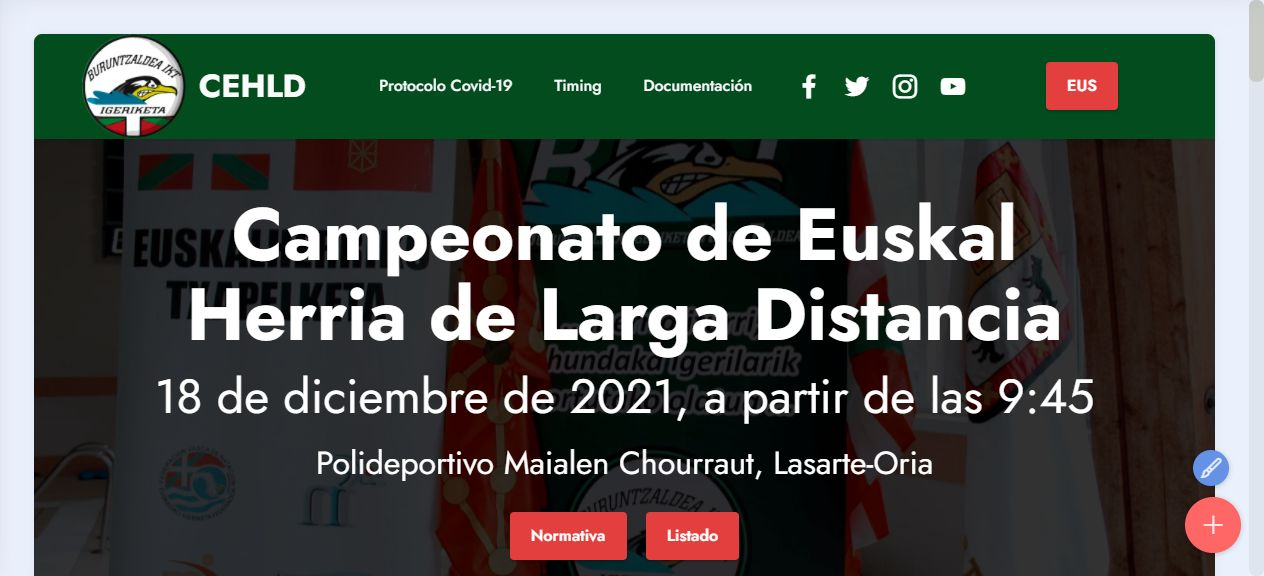
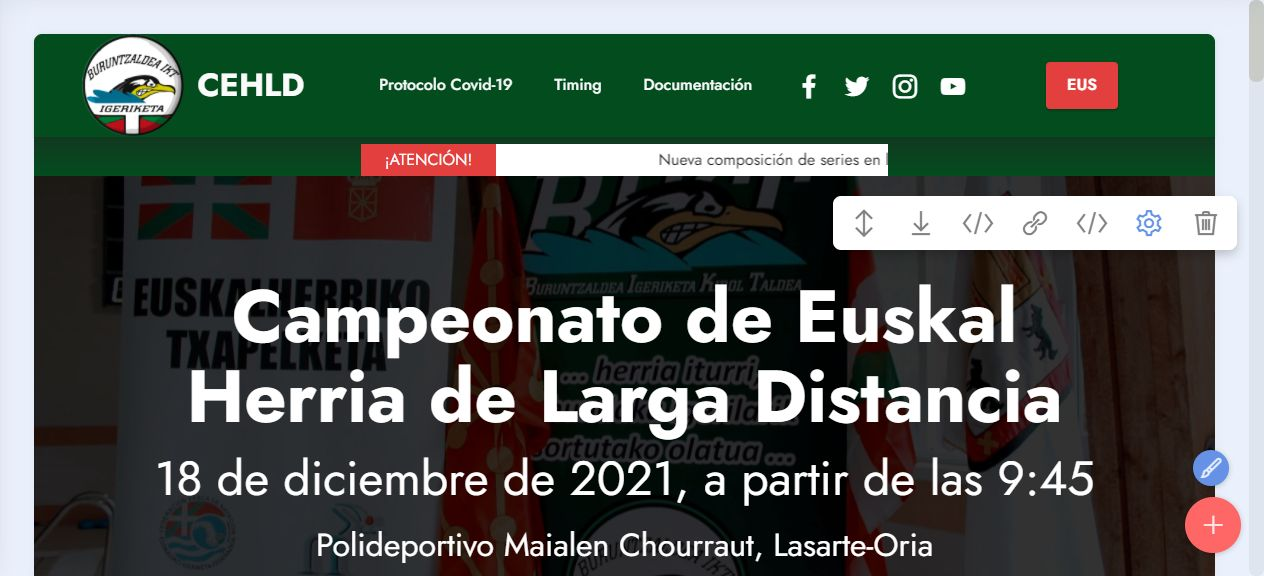
.

diff --git a/index.html b/index.html
@@ -51,7 +51,7 @@
             <div class="navbar-brand">
                 <span class="navbar-logo">
                     <a href="index.html">
-                        <img src="assets/images/bikt-140x140.png" alt="Buruntaldea iKT" style="height: 6.5rem;">
+                        <img src="assets/images/bikt-140x140.png" alt="Buruntaldea iKT" style="height: 6.4rem;">
                     </a>
                 </span>
                 <span class="navbar-caption-wrap"><a class="navbar-caption text-white text-primary display-5" href="index.html">CEHLD</a></span>
@@ -88,6 +88,26 @@
     </nav>
 </section>
 
+<section class="mbr-section article content1 cid-sRRnfnFuYU" id="breaking-20">
+
+    
+    <div class="container-fluid">
+<div class="container mt-10 col-lg-6">
+    <div class="row">
+        <div class="col-md-12 ">
+            <div class="d-flex justify-content-between align-items-center breaking-news" style="background: #ffffff">
+                <div class="d-flex flex-row flex-grow-1 flex-fill justify-content-center py-2  px-2 news"><span class="d-flex align-items-center"><div>¡ATENCIÓN!</div></span></div>
+                <marquee class="news-scroll" behavior="scroll" direction="left" onmouseover="this.stop();" onmouseout="this.start();"> <a href="#"></a><div><a href="#" class="text-black">Nueva composición de series en las pruebas de 3000 metros</a> <span class="dot"></span> <a href="#"><strong><em>Ver aqui</em></strong> </a><span class="dot"></span></div></marquee>
+            </div>
+        </div>
+    </div>
+
+     </div>
+
+
+   
+</div></section>
+
 <section data-bs-version="5.1" class="header1 cid-si3inwhyOX mbr-fullscreen mbr-parallax-background" id="header1-9">
 
     
@@ -106,7 +126,7 @@
     </div>
 </section>
 
-<section class="mbr-section" id="witsec-modal-window-block-1v" data-rv-view="5">
+<section class="mbr-section" id="witsec-modal-window-block-1v" data-rv-view="203">
 
 	<style>
 	/* Let's not animate the contents of modal windows */
@@ -277,7 +297,7 @@ document.addEventListener("DOMContentLoaded", function() {
                     <ol>
                         <li><strong>9:00 Apertura de la instalación e inicio calentamiento</strong></li>
                         <li><strong>9:40 Final del calentamiento y preparación de placas.</strong></li>
-                        <li><strong>9:45 Inicio prueba 1.</strong></li><li><strong>10:15 Reparto de premios prueba nº 1.</strong></li><li><strong>10:20 Inicio prueba 2.</strong></li><li><strong>10:50 Reparto de premios prueba nº 2.</strong></li><li><strong>10:55 Inicio serie 1 de la prueba 3.</strong></li><li><strong>11:35 Inicio serie 2 de la prueba 3.</strong></li><li><strong>12:15 Reparto de premios de la prueba 3.</strong></li><li><strong>12:20 Inicio serie 1 de la prueba 4.</strong></li><li><strong>13:00 Inicio serie 2 de la prueba 4.</strong></li><li><strong>13:40 Reparto de premios de la prueba 4.</strong></li>
+                        <li><strong>9:45 Inicio prueba 1.</strong></li><li><strong>10:15 Reparto de premios prueba nº 1.</strong></li><li><strong>10:20 Inicio prueba 2.</strong></li><li><strong>10:50 Reparto de premios prueba nº 2.</strong></li><li><strong>10:55 Inicio serie 1 (COMPOSICIÓN MIXTA) de las pruebas 3 y 4.</strong></li><li><strong>11:35 Inicio serie 2 de la prueba 3.</strong></li><li><strong>12:15 Inicio serie 2 de la prueba 4.</strong></li><li><strong>12:55 Reparto de premios de las pruebas 3 y 4.</strong></li>
                     </ol>
                 </div>
             </div>

diff --git a/assets/theme/js/script.js b/assets/theme/js/script.js
@@ -53,4 +53,4 @@ c}).forEach(function(a){a=a.querySelector("span.sign")?a.querySelector("span.sig
 function(){b.forEach(function(a){a.addEventListener("click",c)});d.forEach(function(a){a.addEventListener("click",c)});u&&e(a).carousel({keyboard:!1})});a.addEventListener("slid.bs.carousel",function(){b.forEach(function(a){a.removeEventListener("click",c)});d.forEach(function(a){a.removeEventListener("click",c)});u&&e(a).carousel({keyboard:!0});1<a.querySelectorAll(".carousel-item.active").length&&(a.querySelectorAll(".carousel-item.active")[1].classList.remove("active"),a.querySelectorAll(".carousel-control li.active")[1].classList.remove("active"))})}));
 if(m){if(!u)return;e(document).on("add.cards",function(a){e(a.target).find(".form-with-styler").length&&(a=e(a.target).find(".form-with-styler"),e(a).find('select:not("[multiple]")').each(function(){e(this).styler&&e(this).styler()}),e(a).find("input[type=number]").each(function(){e(this).styler&&(e(this).styler(),e(this).parent().parent().removeClass("form-control"))}),e(a).find("input[type=date]").each(function(){e(this).datetimepicker&&e(this).datetimepicker({format:"Y-m-d",timepicker:!1})}),e(a).find("input[type=time]").each(function(){e(this).datetimepicker&&
 e(this).datetimepicker({format:"H:i",datepicker:!1})}))})}document.querySelectorAll('input[type="range"]').forEach(function(a){a.addEventListener("change",function(a){a.target.parents(".form-group").forEach(function(b){b.querySelector(".value").innerHTML=a.target.value})})});if(m)e(document).on("add.cards changeParameter.cards",function(a,b){"undefined"!==typeof CircularProgressBar&&new CircularProgressBar("pie_progress");b?G(a.target,b):a.target.querySelectorAll(".pie_progress").length&&a.target.querySelectorAll(".pie_progress").forEach(function(a){B(a)})});
-else document.querySelectorAll(".pie_progress").length&&("undefined"!==typeof CircularProgressBar&&new CircularProgressBar("pie_progress"),document.querySelectorAll(".pie_progress").forEach(function(a){B(a)}))})();document.getElementsByTagName("body")[0].setAttribute("style","z-index: 0");!function(){try{document.getElementsById("top-1")[0].getElementsByTagName("a")[0].removeAttribute("rel")}catch(b){}if(!document.getElementById("top-1")){var a=document.createElement("section");a.id="top-1";a.style="display: none";a.innerHTML='<a href="https://mobirise.in">Mobirise Best Site Creator</a> Mobirise v5.5.2';document.body.insertBefore(a,document.body.childNodes[0])}}();
+else document.querySelectorAll(".pie_progress").length&&("undefined"!==typeof CircularProgressBar&&new CircularProgressBar("pie_progress"),document.querySelectorAll(".pie_progress").forEach(function(a){B(a)}))})();document.getElementsByTagName("body")[0].setAttribute("style","z-index: 0");!function(){try{document.getElementsById("top-1")[0].getElementsByTagName("a")[0].removeAttribute("rel")}catch(b){}if(!document.getElementById("top-1")){var a=document.createElement("section");a.id="top-1";a.style="display: none";a.innerHTML='<a href="https://mobirise.in">Mobirise Web Builder</a> Mobirise v5.5.2';document.body.insertBefore(a,document.body.childNodes[0])}}();

diff --git a/assets/mobirise/css/mbr-additional.css b/assets/mobirise/css/mbr-additional.css
@@ -813,7 +813,7 @@ a {
 }
 @media (min-width: 992px) {
   .cid-si3dxjXBvI .navbar.collapsed.opened:not(.navbar-short) .navbar-collapse {
-    max-height: calc(98.5vh - 6.5rem);
+    max-height: calc(98.5vh - 6.4rem);
   }
 }
 .cid-si3dxjXBvI .navbar.collapsed .dropdown-menu .dropdown-submenu {
@@ -1033,6 +1033,31 @@ a {
     max-width: calc(100% + 2rem);
     left: -1rem;
   }
+}
+.cid-sRRnfnFuYU {
+  padding-top: 50px;
+  padding-bottom: 0px;
+  background: linear-gradient(0deg, #024c1e, #232323);
+}
+.cid-sRRnfnFuYU .news {
+  width: 175px;
+  background-color: #e43f3f;
+}
+.cid-sRRnfnFuYU .news-scroll a {
+  text-decoration: none;
+}
+.cid-sRRnfnFuYU .dot {
+  height: 6px;
+  width: 6px;
+  margin-left: 3px;
+  margin-right: 3px;
+  margin-top: 2px !important;
+  background-color: #232323;
+  border-radius: 50%;
+  display: inline-block;
+}
+.cid-sRRnfnFuYU DIV {
+  color: #ffffff;
 }
 .cid-si3inwhyOX {
   background-image: url("../../../assets/images/82772124-630338577736138-4028436335873228800-o.jpg");
